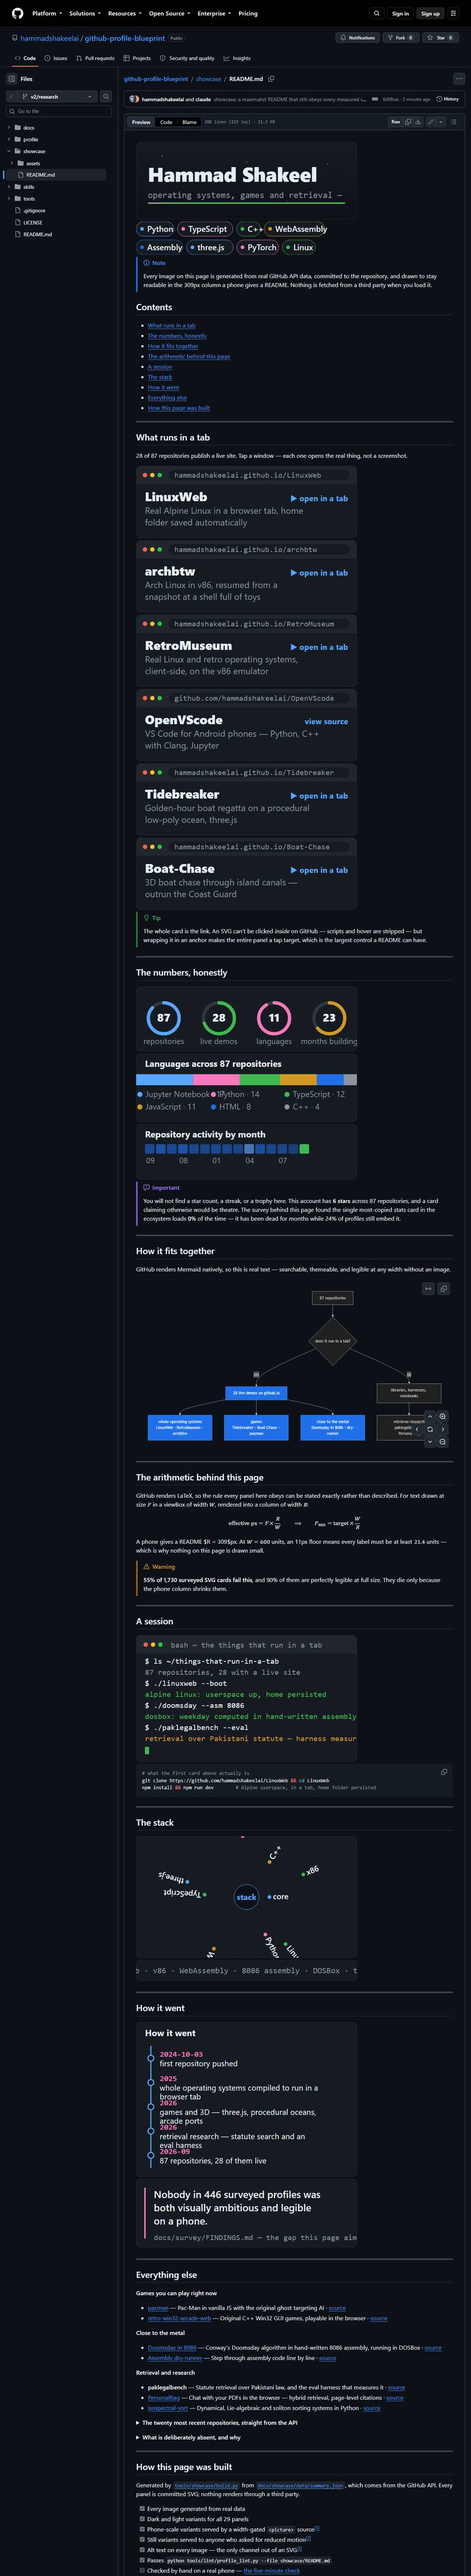
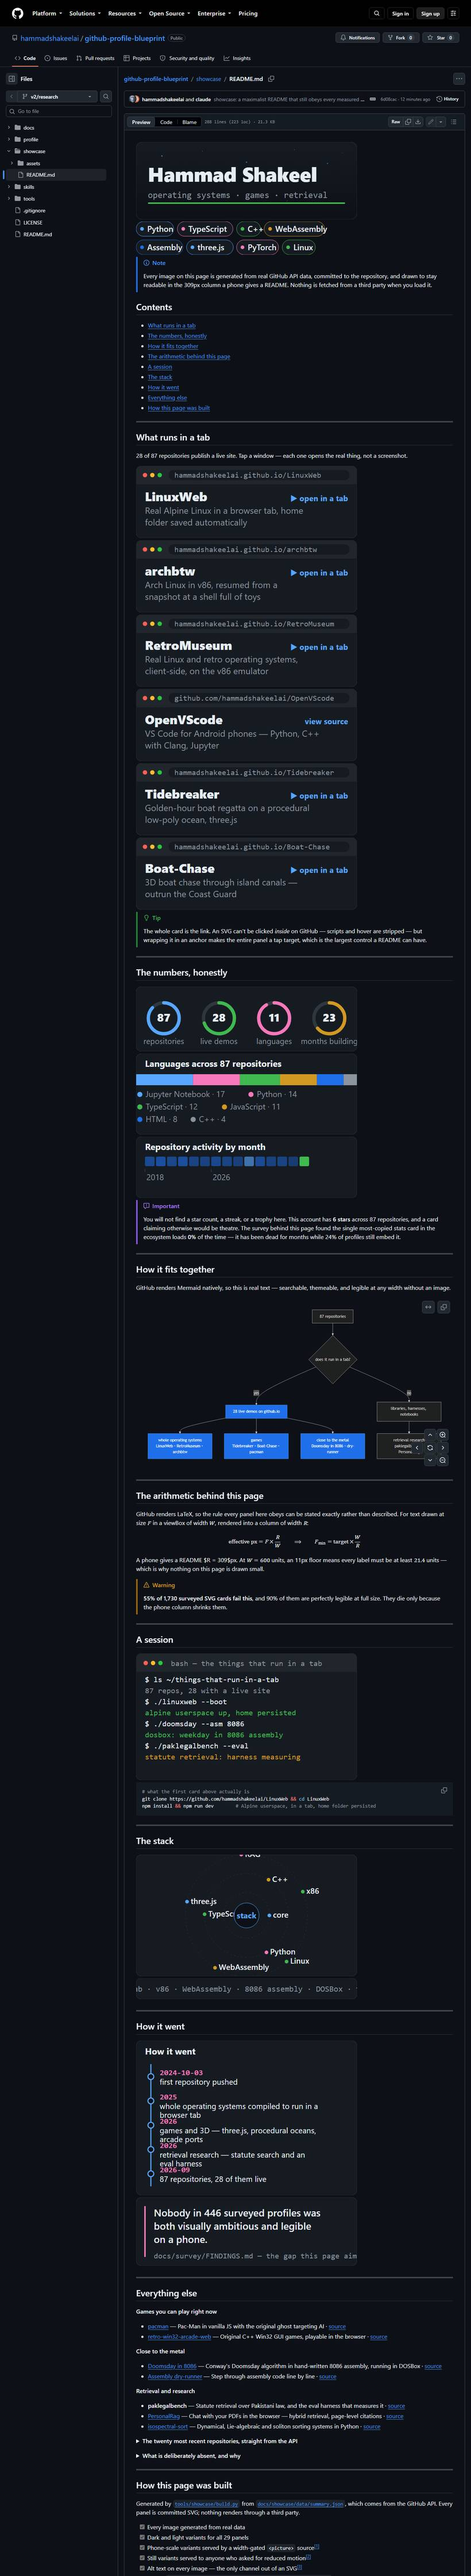
showcase: a continuous 24-month heatmap, and a guard that enforces it
The API only reports months with a push; drawing those side by side put a 2018
bucket next to a 2025 one and implied a density that isn't there.

Changed region(s): [[0.2744, 0.4371, 0.9451, 1.0], [0.6707, 0.7493, 0.7012, 0.7806]]

diff --git a/tools/showcase/panels.py b/tools/showcase/panels.py
@@ -196,7 +196,17 @@ def languages(p, data: list[tuple[str, int]], width: int = W) -> str:
 # --------------------------------------------------------------------------- #
 # 4 · Build rhythm — a real heatmap of repository activity by month
 # --------------------------------------------------------------------------- #
-def rhythm(p, months: list[tuple[str, int]], width: int = W) -> str:
+def rhythm(p, months: list[tuple[str, int]], width: int = W,
+           title: str = "Repository activity") -> str:
+    """months must be a *continuous* run of ("YYYY-MM", count) — every month in
+    the range, zeros included. Plotting only the months that had activity puts
+    a 2018 bucket next to a 2025 one and reads as a lie about the timeline."""
+    keys = [m for m, _ in months]
+    if keys != sorted(keys) or any(
+            (int(b[:4]) * 12 + int(b[5:7])) - (int(a[:4]) * 12 + int(a[5:7])) != 1
+            for a, b in zip(keys, keys[1:])):
+        raise SystemExit("rhythm(): months must be continuous and in order; "
+                         f"got {keys[:3]}…{keys[-1:]}")
     cols = len(months)
     cell = min(30, (width - 48) // max(cols, 1))
     peak = max((n for _, n in months), default=1) or 1
@@ -217,10 +227,12 @@ def rhythm(p, months: list[tuple[str, int]], width: int = W) -> str:
             cells += (f'<path d="M{x} {54 + cell + 4} L{x} {54 + cell + 12}" '
                       f'stroke="{p["line"]}" stroke-width="2"/>'
                       + text(x + 4, 54 + cell + 34, label[:4], 22, p["muted"], canvas=width))
-    body = (card(p, width, h) + text(24, 36, "Repository activity by month", 24, p["text"], 700, canvas=width)
+    body = (card(p, width, h) + text(24, 36, title, 24, p["text"], 700, canvas=width)
             + cells)
+    peak_month = max(months, key=lambda m: m[1])
     return svg(width, h, body,
-               "Heatmap of repository activity per month, brighter where more repositories moved")
+               f"{title}: a heatmap of {len(months)} months from {months[0][0]} to "
+               f"{months[-1][0]}, busiest in {peak_month[0]} with {peak_month[1]} repositories")
 
 
 # --------------------------------------------------------------------------- #

diff --git a/tools/showcase/build.py b/tools/showcase/build.py
@@ -126,7 +126,8 @@ def build_assets(d: dict, projects: list[dict]) -> None:
                                          ("Assembly", "deep"), ("three.js", "accent"),
                                          ("PyTorch", "hot"), ("Linux", "go")]))
     write("languages", lambda p: P.languages(p, d["languages"][:6]))
-    write("rhythm", lambda p: P.rhythm(p, d["months"]))
+    write("rhythm", lambda p: P.rhythm(p, last_months(d["months"], 24),
+                                       title="Repository activity, last 24 months"))
     write("gauges", lambda p: P.gauges(p, [
         ("repositories", d["repos"], 100, "accent"),
         ("live demos", d["pages_sites"], 40, "go"),
@@ -167,6 +168,20 @@ def build_assets(d: dict, projects: list[dict]) -> None:
 MARQUEE = ["Alpine Linux in a tab", "v86", "WebAssembly", "8086 assembly", "DOSBox",
            "three.js", "procedural oceans", "Pac-Man in vanilla JS", "RAG", "page-level citations",
            "PyTorch", "eval harnesses", "Win32 in the browser"]
+
+
+def last_months(months: list[list], n: int) -> list[tuple[str, int]]:
+    """The last n calendar months as a continuous run, zeros filled in. The API
+    only reports months that saw a push, and drawing those side by side would
+    imply a density that isn't there."""
+    have = {m: c for m, c in months}
+    now = datetime.now()
+    out = []
+    for i in range(n - 1, -1, -1):
+        y, m = divmod((now.year * 12 + now.month - 1) - i, 12)
+        key = f"{y:04d}-{m + 1:02d}"
+        out.append((key, have.get(key, 0)))
+    return out
 
 
 def months_between(iso: str) -> int:
